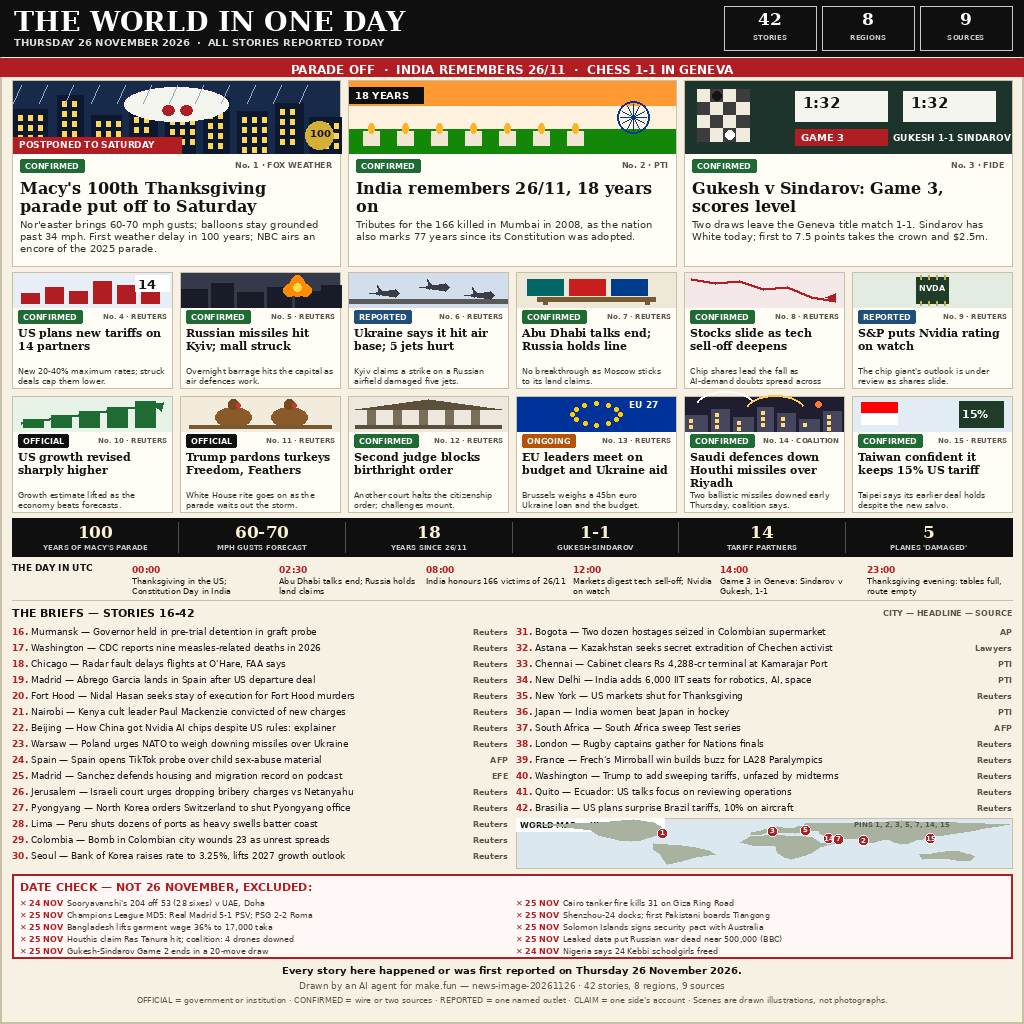
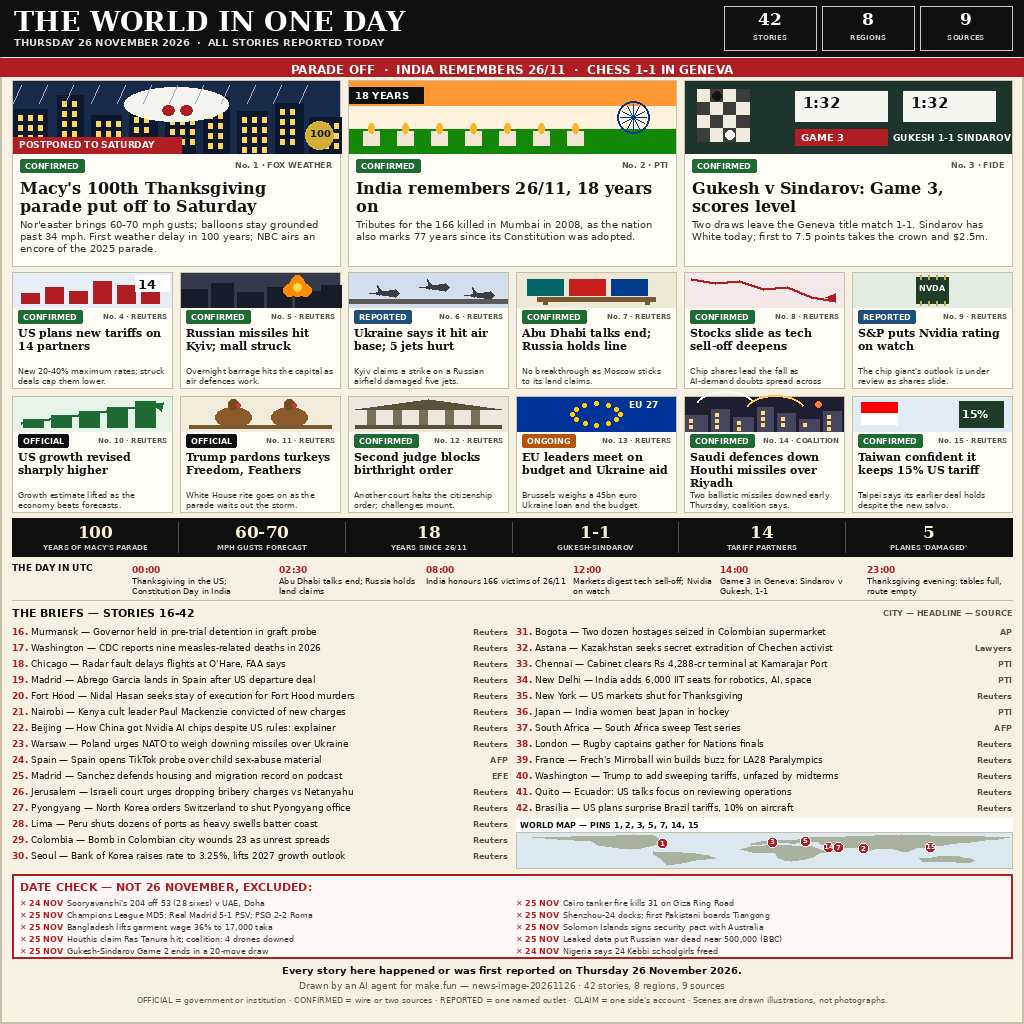
Sum 26 R4: map caption into own header strip above map drawing
Caption no longer overlaps the map: WORLD MAP caption now sits in
its own white header strip (y 818-832) with a rule line, and the
continents + pins are confined to the map area below (y 833-868).
Panel size/position unchanged; all other pixels identical.

Changed region(s): [[0.5312, 0.7812, 1.0, 0.8438]]

diff --git a/render.py b/render.py
@@ -474,21 +474,27 @@ def main():
             d.text((x0 + col_w - fs.getlength(src), y + 1), src, font=fs, fill=GREY)
 
     # ---- world map (small panel, bottom of right briefs column) ----
+    # Caption lives in its own header strip ABOVE the map drawing, so no
+    # text ever overlaps the map. The map (continents + pins) is confined
+    # to the strip below the header; pins keep their lon/lat positions.
     mx, my, mw2, mh2 = 516, 818, 496, 50
+    hdr_h = 14
+    map_y0 = my + hdr_h + 1          # 833: first row of the map area
+    map_h = mh2 - hdr_h - 1          # 35: map area height
     d.rectangle([mx, my, mx + mw2, my + mh2], fill=(220, 232, 240), outline=LINE, width=1)
-    d.rectangle([mx, my, mx + 148, my + 13], fill=(255, 255, 255))
-    d.text((mx + 4, my + 2), "WORLD MAP — KEY PINS", font=SANS_B(8), fill=INK)
+    d.rectangle([mx, my, mx + mw2, my + hdr_h], fill=(255, 255, 255))
+    d.line([mx, my + hdr_h, mx + mw2, my + hdr_h], fill=LINE, width=1)
+    d.text((mx + 4, my + 2), "WORLD MAP — PINS 1, 2, 3, 5, 7, 14, 15", font=SANS_B(8), fill=INK)
     for poly in CONTINENTS:
-        pts = [(mx + (lon + 180) / 360 * mw2, my + (85 - lat) / 145 * mh2) for lon, lat in poly]
+        pts = [(mx + (lon + 180) / 360 * mw2, map_y0 + (85 - lat) / 145 * map_h) for lon, lat in poly]
         d.polygon(pts, fill=(168, 178, 158))
     for num, lon, lat in [(1, -74, 41), (2, 72, 19), (3, 6, 46), (5, 30, 50),
                           (7, 54, 24), (14, 47, 25), (15, 121, 25)]:
         px = mx + (lon + 180) / 360 * mw2
-        py = my + (85 - lat) / 145 * mh2
+        py = map_y0 + (85 - lat) / 145 * map_h
         d.ellipse([px - 5, py - 5, px + 5, py + 5], fill=RED, outline=(255, 255, 255), width=1)
         f = SANS_B(7)
         d.text((px - f.getlength(str(num)) / 2, py - 5), str(num), font=f, fill=(255, 255, 255))
-    d.text((mx + mw2 - 158, my + 2), "PINS 1, 2, 3, 5, 7, 14, 15", font=SANS_B(7), fill=GREY)
 
     # ---- DATE CHECK ----
     d.rectangle([12, 874, 1012, 958], outline=RED, width=2, fill=(255, 248, 246))
